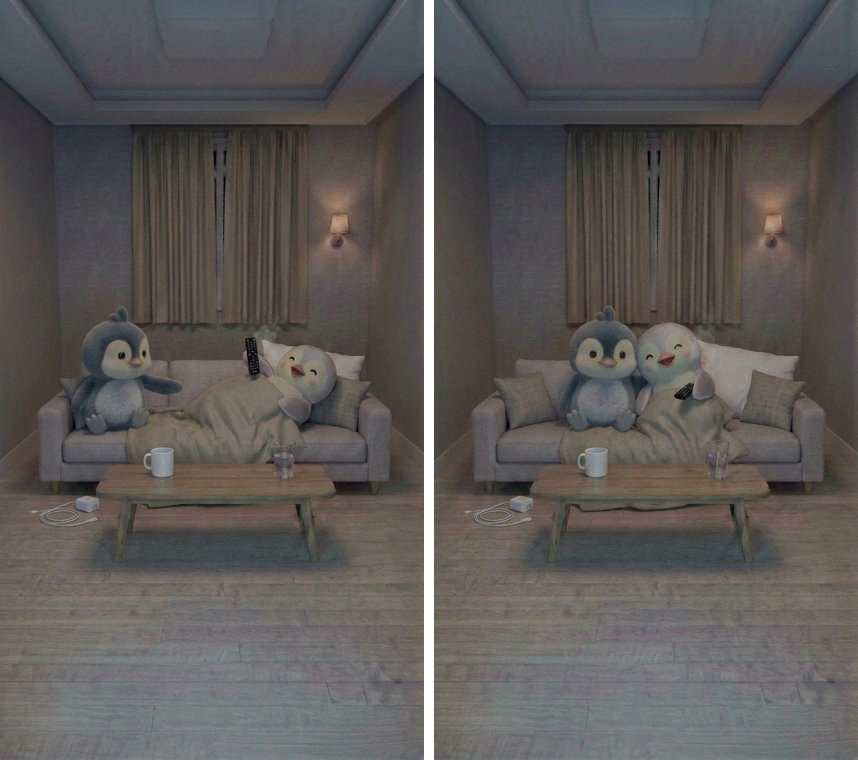
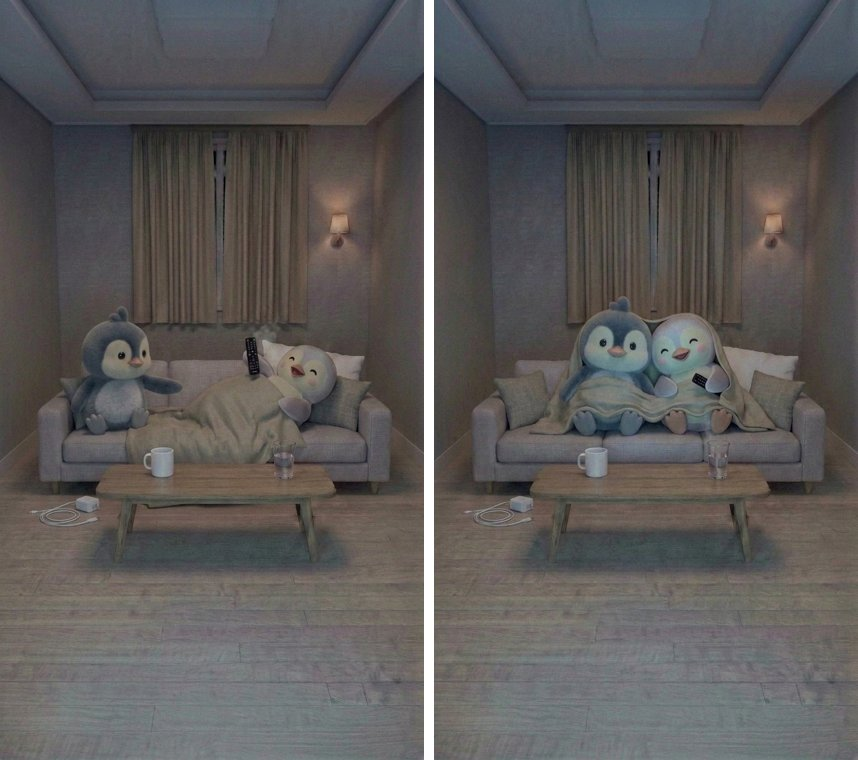
ep02 16e v2(둘이 이불) + 스토리 격자 시트 v1
Claude-Session: https://claude.ai/code/session_01SQGDxQ7jeAcwC7nJPg1YUA

Changed region(s): [[0.6061, 0.3934, 0.9091, 0.6053], [0.697, 0.6658, 0.7879, 0.6961]]

diff --git a/docs/ep02/03_이미지_프롬프트_v2.md b/docs/ep02/03_이미지_프롬프트_v2.md
@@ -304,7 +304,7 @@ The final image must be vertical 9:16.
 첨부: `outputs/ep02/15/end_v1.png`(1번째), `outputs/ep01/9-04/start_v1.png`(2번째, 둘이 붙어 앉은 참조), `pang-changsu_hires_front.png`, `pang-misun_hires_front.png`, `expressions/pang-misun_expr_02_happy.png`
 ```
 The output image must be a VERTICAL 9:16 PORTRAIT image - tall, not square, not landscape.
-Edit the FIRST attached image. Keep EVERYTHING exactly the same: the same camera, living room, sofa, curtain, wall lamp, TV glow, the glass and the mug on the table, the white charger on the floor beside the left armrest, the white pillow against the right armrest, and the same size of both penguins. The SECOND attached image shows the two of them sitting close together on this sofa; use it for how they sit side by side. Change the two penguins as follows, and nothing else: Mi-sun has SAT UP and moved left: both penguins now SIT SIDE BY SIDE in the MIDDLE of the sofa, Chang-su on the LEFT and Mi-sun on the RIGHT, their shoulders touching, Mi-sun leaning her head gently against Chang-su's shoulder, both facing the camera (watching the television), both with their small grey feet resting on the seat cushion in front of them. The beige duvet now covers BOTH of them from the chest down, one duvet shared, its edge draped over the front of the seat. Mi-sun still holds the black remote in the wing nearer the camera, resting on top of the duvet. Chang-su's wings rest under the duvet, holding nothing. Seated, the tops of their heads stay BELOW the top of the sofa backrest. Mi-sun has a wide happy smile, eyes open, beak closed, pink blush. Chang-su has his calm neutral face with the eyes very slightly curved in a tiny hint of warmth, beak closed, tuft, NO blush. The soft bluish TV light falls on both faces. Exactly ONE remote, ONE duvet, ONE pillow, ONE glass, ONE mug, ONE charger. Do not change the fur of either penguin (short velvet fur with visible soft fibers, matte, NOT smooth, NOT plastic, NOT glossy), do not change the room or the lighting. No text, no reflections, no other objects.
+Edit the FIRST attached image. Keep EVERYTHING exactly the same: the same camera, living room, sofa, curtain, wall lamp, TV glow, the glass and the mug on the table, the white charger on the floor beside the left armrest, the white pillow against the right armrest, and the same size of both penguins. The SECOND attached image shows the two of them sitting close together on this sofa; use it for how they sit side by side. Change the two penguins as follows, and nothing else: Mi-sun has SAT UP and moved left: both penguins now SIT SIDE BY SIDE in the MIDDLE of the sofa, Chang-su on the LEFT and Mi-sun on the RIGHT, their shoulders touching, Mi-sun leaning her head gently against Chang-su's shoulder, both facing the camera (watching the television), both with their small grey feet resting on the seat cushion in front of them. The ONE beige duvet is spread across BOTH penguins: it covers Chang-su's belly, legs and feet as well as Mi-sun's, so NEITHER penguin's feet or belly are visible; only their heads, shoulders and the wings resting on top of the duvet show. Its edge drapes over the front of the seat. Mi-sun still holds the black remote in the wing nearer the camera, resting on top of the duvet. Chang-su's wings rest under the duvet, holding nothing. Seated, the tops of their heads stay BELOW the top of the sofa backrest. Mi-sun has a wide happy smile with her eyes softly curved, her beak CLOSED, pink blush. Chang-su has his calm neutral face with the eyes very slightly curved in a tiny hint of warmth, beak closed, tuft, NO blush. The soft bluish TV light falls on both faces. Exactly ONE remote, ONE duvet, ONE pillow, ONE glass, ONE mug, ONE charger. Do not change the fur of either penguin (short velvet fur with visible soft fibers, matte, NOT smooth, NOT plastic, NOT glossy), do not change the room or the lighting. No text, no reflections, no other objects.
 The final image must be vertical 9:16.
 ```
 확인: 창수 좌·미순 우, 어깨 닿음, 이불 1장이 둘을 덮음, 리모컨 미순 손, 충전기 바닥·탁자 2개·베개 유지, 머리 등받이 아래, 창수 눈 10%만. 섞이면 재생성 권장.
@@ -358,3 +358,5 @@ The final image must be vertical 9:16.
 - 16e: `The ONE beige duvet is spread across BOTH penguins: it covers Chang-su's belly, legs and feet as well as Mi-sun's, so neither penguin's feet are visible; only their heads, shoulders and the wings on top of the duvet show. Mi-sun's beak is CLOSED.` (Pro)
 
 배운 것(05c에 추가할 규칙 후보): 이 모델은 **"손에 든 물건"을 머리 위로 치켜드는 버릇**이 있다 → 든 물건에는 항상 높이 문장(`LOW, at chest level, below the backrest top`)을 넣는다. "둘 다 덮는다"는 `BOTH ... as well as ...; neither ... visible`처럼 부정문까지 써야 한다.
+
+**16e v2 ✅(주의) (2026-10-07)**: Pro 193원(누적 4,438원). 이불 하나가 둘을 **어깨까지 망토처럼** 덮음(요청은 가슴 아래였으나 "둘이 같은 이불" 느낌은 더 강함), 미순 리모컨 들고 기댐, 창수 좌·미순 우. 발은 보임. 사용자 격자 검토용 `outputs/ep02/prompts/storygrid_v1.jpg`.
